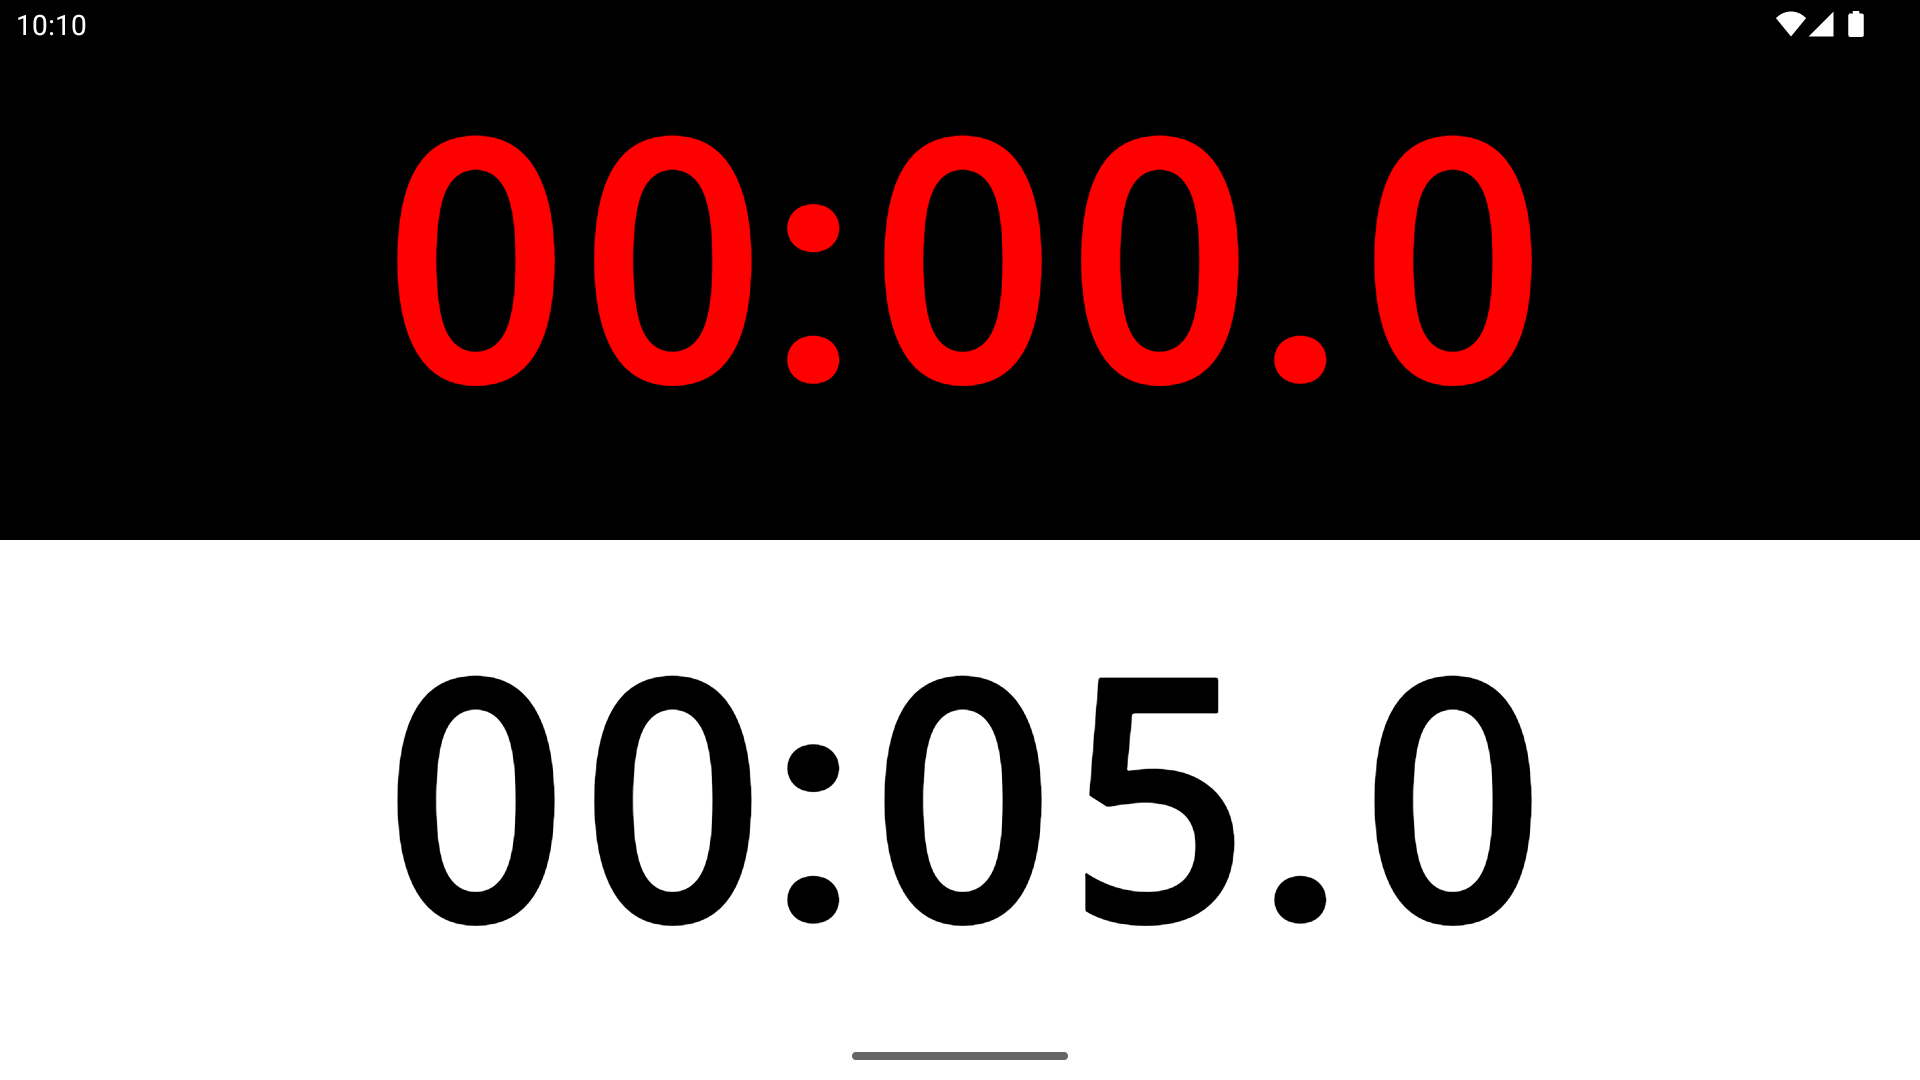
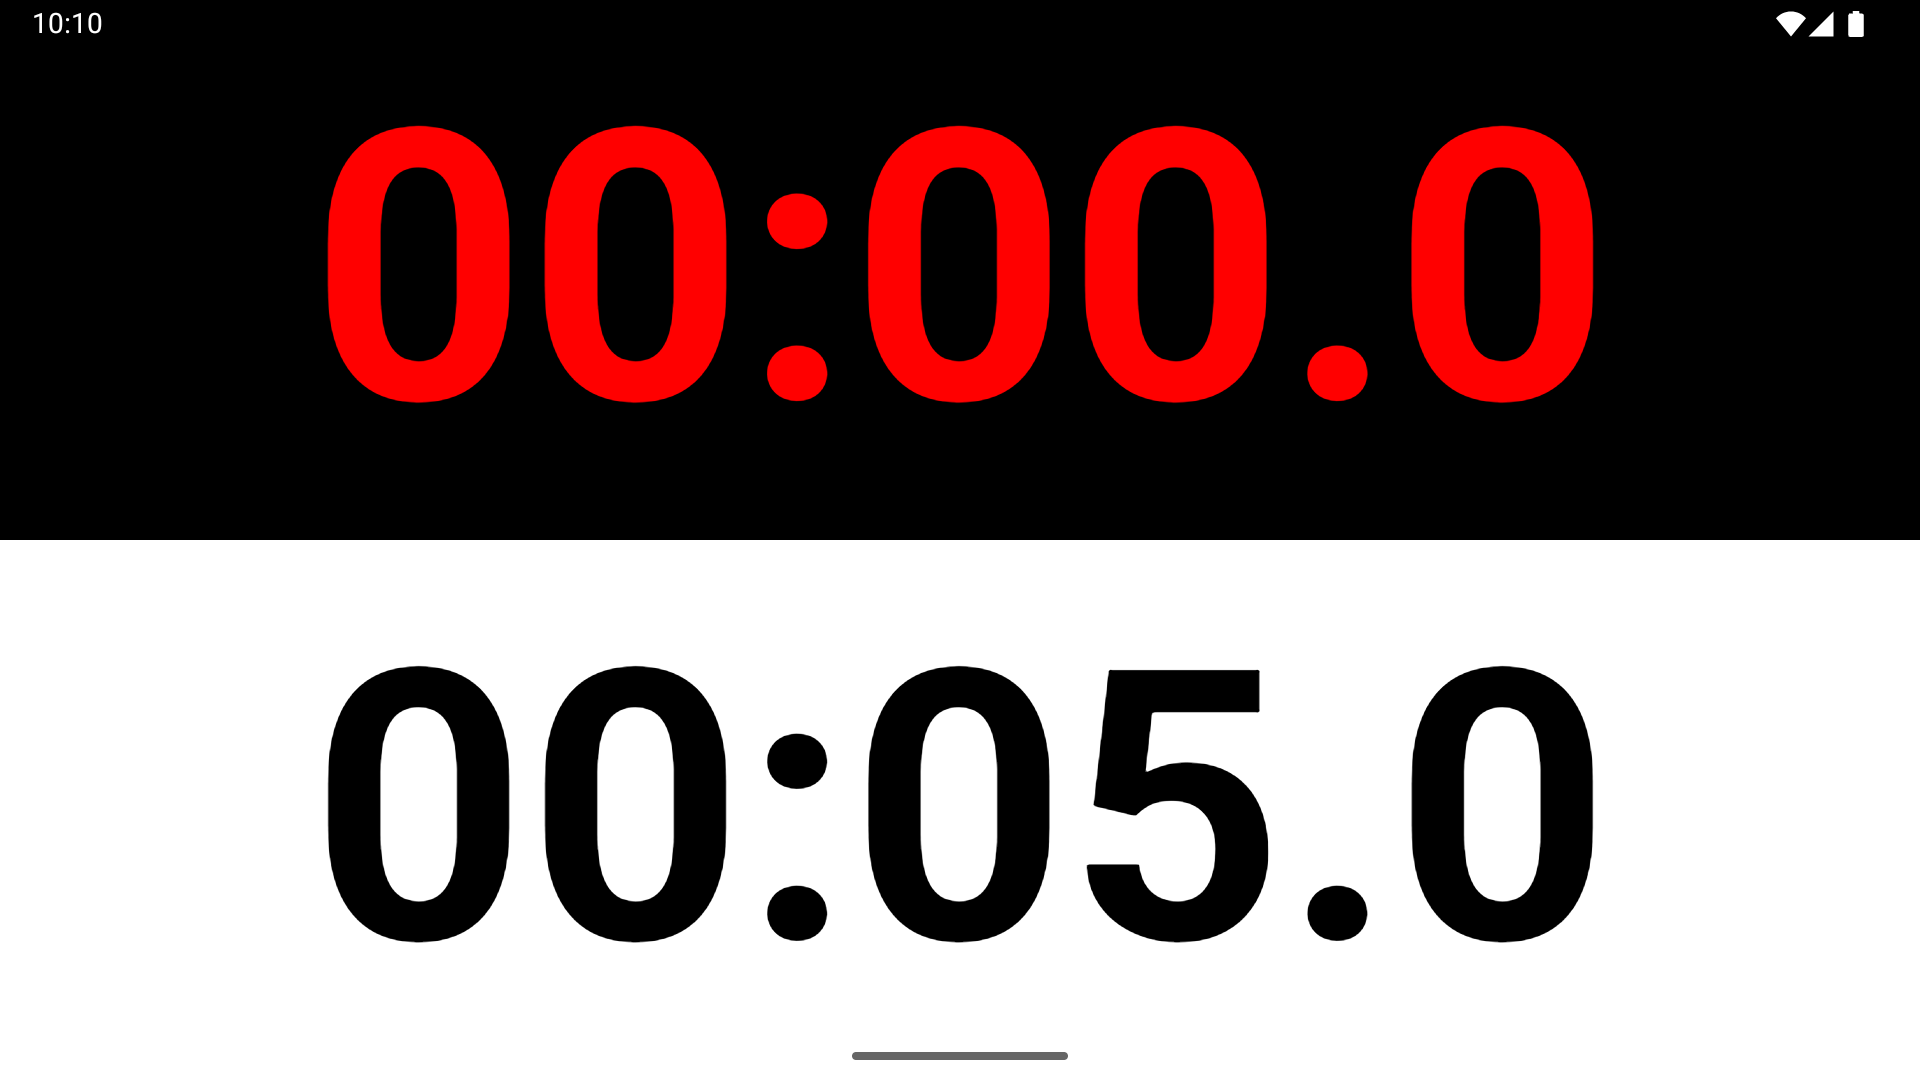
Use tabular numerals instead of a monospaced font

Changed region(s): [[0.1562, 0.6111, 0.8438, 0.8861], [0.1562, 0.0917, 0.8438, 0.3972], [0.0, 0.0, 0.0625, 0.0306]]

diff --git a/src/main/kotlin/ui/ClockContent.kt b/src/main/kotlin/ui/ClockContent.kt
@@ -4,6 +4,7 @@
 package net.leodesouza.blitz.ui
 
 import android.content.res.Configuration.ORIENTATION_LANDSCAPE
+import android.content.res.Configuration.ORIENTATION_PORTRAIT
 import androidx.activity.BackEventCompat
 import androidx.compose.animation.core.EaseInOut
 import androidx.compose.animation.core.RepeatMode
@@ -65,37 +66,47 @@ fun ClockContent(
     val density = LocalDensity.current
     val displayOrientation = LocalConfiguration.current.orientation
 
+    // Total window size
     val windowMetricsCalculator = WindowMetricsCalculator.getOrCreate()
     val windowSize = windowMetricsCalculator.computeCurrentWindowMetrics(context).bounds
-    val windowHeight = windowSize.height()
     val windowWidth = windowSize.width()
+    val windowHeight = windowSize.height()
 
+    // Available size
     val windowInsets = WindowInsets.safeDrawing
-    val leftSpace = windowInsets.getLeft(density, LayoutDirection.Ltr)
-    val topSpace = windowInsets.getTop(density)
-    val rightSpace = windowInsets.getRight(density, LayoutDirection.Ltr)
-    val bottomSpace = windowInsets.getBottom(density)
+    val leftPadding = windowInsets.getLeft(density, LayoutDirection.Ltr)
+    val topPadding = windowInsets.getTop(density)
+    val rightPadding = windowInsets.getRight(density, LayoutDirection.Ltr)
+    val bottomPadding = windowInsets.getBottom(density)
+    val availableWidth = windowWidth - 2 * max(leftPadding, rightPadding)
+    val availableHeight = windowHeight / 2 - 2 * max(bottomPadding, topPadding)
 
-    val safeWidth = windowWidth - 2 * max(leftSpace, rightSpace)
-    val safeHeight = windowHeight - 4 * max(bottomSpace, topSpace)
+    // Text size
+    val sizeToWidthRatio = 0.28F
+    val sizeToHeightRatio = 0.84F
+    val maxHorizontalTextSize = availableWidth * sizeToWidthRatio
+    val maxVerticalTextSize = availableHeight * if (displayOrientation == ORIENTATION_LANDSCAPE) {
+        sizeToHeightRatio
+    } else {
+        sizeToWidthRatio
+    }
+    val textSize = min(maxHorizontalTextSize, maxVerticalTextSize)
 
-    val fontSizePx = min(
-        safeWidth * 0.28F,
-        safeHeight * if (displayOrientation == ORIENTATION_LANDSCAPE) 0.42F else 0.14F,
+    // Text style
+    val textStyle = TextStyle(
+        fontSize = with(density) { textSize.toSp() },
+        fontWeight = FontWeight.Bold,
+        fontFeatureSettings = "tnum",
     )
-    val fontSize = with(density) { fontSizePx.toSp() }
-    val fontWeight = FontWeight.Bold
     val timeOverColor = Color.Red
-
-    val infiniteTransition = rememberInfiniteTransition(label = "OscillatingAlphaTransition")
-    val oscillatingAlpha by infiniteTransition.animateFloat(
+    val oscillatingAlpha by rememberInfiniteTransition(label = "InfiniteTransition").animateFloat(
         initialValue = 1F,
         targetValue = 0.5F,
         animationSpec = infiniteRepeatable(
             animation = tween(durationMillis = 500, easing = EaseInOut),
             repeatMode = RepeatMode.Reverse,
         ),
-        label = "OscillatingAlphaAnimation",
+        label = "OscillatingAlpha",
     )
 
     Column {
@@ -121,7 +132,7 @@ fun ClockContent(
                     )
                 }
                 .then(reusableItemModifier),
-            style = TextStyle(color = Color.White, fontSize = fontSize, fontWeight = fontWeight),
+            style = textStyle.merge(color = Color.White),
             timeOverColor = timeOverColor,
         )
         BasicTime(
@@ -142,7 +153,7 @@ fun ClockContent(
                     )
                 }
                 .then(reusableItemModifier),
-            style = TextStyle(color = Color.Black, fontSize = fontSize, fontWeight = fontWeight),
+            style = textStyle.merge(color = Color.Black),
             timeOverColor = timeOverColor,
         )
     }
@@ -159,7 +170,7 @@ fun ClockContent(
  * @param[backEventAction] What action is executed by the back gesture.
  * @param[backEventProgress] Progress of the back gesture.
  * @param[backEventSwipeEdge] Swipe edge where the back gesture starts.
- * @param[displayOrientation] The `ORIENTATION_PORTRAIT` or [ORIENTATION_LANDSCAPE] of the display.
+ * @param[displayOrientation] The [ORIENTATION_PORTRAIT] or [ORIENTATION_LANDSCAPE] of the display.
  */
 private fun GraphicsLayerScope.setBasicTimeGraphics(
     isPlaying: Boolean,
@@ -172,23 +183,19 @@ private fun GraphicsLayerScope.setBasicTimeGraphics(
     backEventSwipeEdge: Int,
     displayOrientation: Int,  // ORIENTATION_PORTRAIT or ORIENTATION_LANDSCAPE
 ) {
-    rotationZ = if (displayOrientation == ORIENTATION_LANDSCAPE) {
-        0F
-    } else when (leaningSide) {
-        LeaningSide.LEFT -> 90F
-        LeaningSide.RIGHT -> -90F
+    if (displayOrientation == ORIENTATION_PORTRAIT) {
+        rotationZ = when (leaningSide) {
+            LeaningSide.LEFT -> 90F
+            LeaningSide.RIGHT -> -90F
+        }
     }
 
-    translationX = if (backEventAction == ClockBackAction.PAUSE && !isPlaying) {
-        0F
-    } else {
+    if (backEventAction != ClockBackAction.PAUSE || isPlaying) {
         val sign = if (backEventSwipeEdge == BackEventCompat.EDGE_RIGHT) -1F else 1F
-        sign * backEventProgress * windowWidth
+        translationX = sign * backEventProgress * windowWidth
     }
 
-    alpha = if (clockState == ClockState.PAUSED && isPlaying) {
-        currentlyAdjustedAlpha
-    } else {
-        1F
+    if (clockState == ClockState.PAUSED && isPlaying) {
+        alpha = currentlyAdjustedAlpha
     }
 }

diff --git a/src/main/kotlin/ui/components/BasicTime.kt b/src/main/kotlin/ui/components/BasicTime.kt
@@ -3,20 +3,14 @@
 
 package net.leodesouza.blitz.ui.components
 
-import androidx.compose.foundation.layout.Row
 import androidx.compose.foundation.text.BasicText
 import androidx.compose.runtime.Composable
-import androidx.compose.runtime.CompositionLocalProvider
 import androidx.compose.ui.Modifier
 import androidx.compose.ui.graphics.Color
-import androidx.compose.ui.platform.LocalLayoutDirection
 import androidx.compose.ui.text.TextStyle
-import androidx.compose.ui.text.font.FontFamily
-import androidx.compose.ui.unit.LayoutDirection
 import kotlin.math.ceil
 import kotlin.math.floor
 import kotlin.time.Duration
-import kotlin.time.Duration.Companion.hours
 import kotlin.time.Duration.Companion.milliseconds
 
 /**
@@ -33,33 +27,19 @@ fun BasicTime(
     timeOverColor: Color = style.color,
 ) {
     val time = 100.milliseconds * floor(timeProvider() / 100.milliseconds)
-    val punctuationStyle = if (time.isPositive()) style else style.merge(color = timeOverColor)
-    val digitStyle = punctuationStyle.merge(fontFamily = FontFamily.Monospace)
-    val hoursText: String
-    val minutesText: String
-    val secondsText: String
-    val decimalText: String
 
-    time.toComponents { hours, minutes, seconds, nanoseconds ->
-        hoursText = hours.toString()
-        minutesText = minutes.toString().padStart(length = 2, padChar = '0')
-        secondsText = seconds.toString().padStart(length = 2, padChar = '0')
-        decimalText = (ceil(nanoseconds / 100_000_000.0).toInt()).toString()
-    }
-
-    CompositionLocalProvider(LocalLayoutDirection provides LayoutDirection.Ltr) {
-        Row(modifier) {
-            if (time >= 1.hours) {
-                BasicText(text = hoursText, style = digitStyle)
-                BasicText(text = ":", style = punctuationStyle)
+    BasicText(
+        text = time.toComponents { hours, minutes, seconds, nanoseconds ->
+            val paddedMinutes = minutes.toString().padStart(length = 2, padChar = '0')
+            val paddedSeconds = seconds.toString().padStart(length = 2, padChar = '0')
+            if (hours < 1) {
+                val decimal = ceil(nanoseconds / 100_000_000.0).toInt()
+                "$paddedMinutes:$paddedSeconds.$decimal"
+            } else {
+                "$hours:$paddedMinutes:$paddedSeconds"
             }
-            BasicText(text = minutesText, style = digitStyle)
-            BasicText(text = ":", style = punctuationStyle)
-            BasicText(text = secondsText, style = digitStyle)
-            if (time < 1.hours) {
-                BasicText(text = ".", style = punctuationStyle)
-                BasicText(text = decimalText, style = digitStyle)
-            }
-        }
-    }
+        },
+        modifier = modifier,
+        style = style.merge(color = if (time.isPositive()) style.color else timeOverColor),
+    )
 }

diff --git a/CHANGELOG.md b/CHANGELOG.md
@@ -3,6 +3,10 @@
 
 ## 1.8.8 – Unreleased
 
+### Improvement
+
+- Use tabular numerals instead of a monospaced font
+
 ### Notes
 
 - Simplify declaration of signingConfigs
